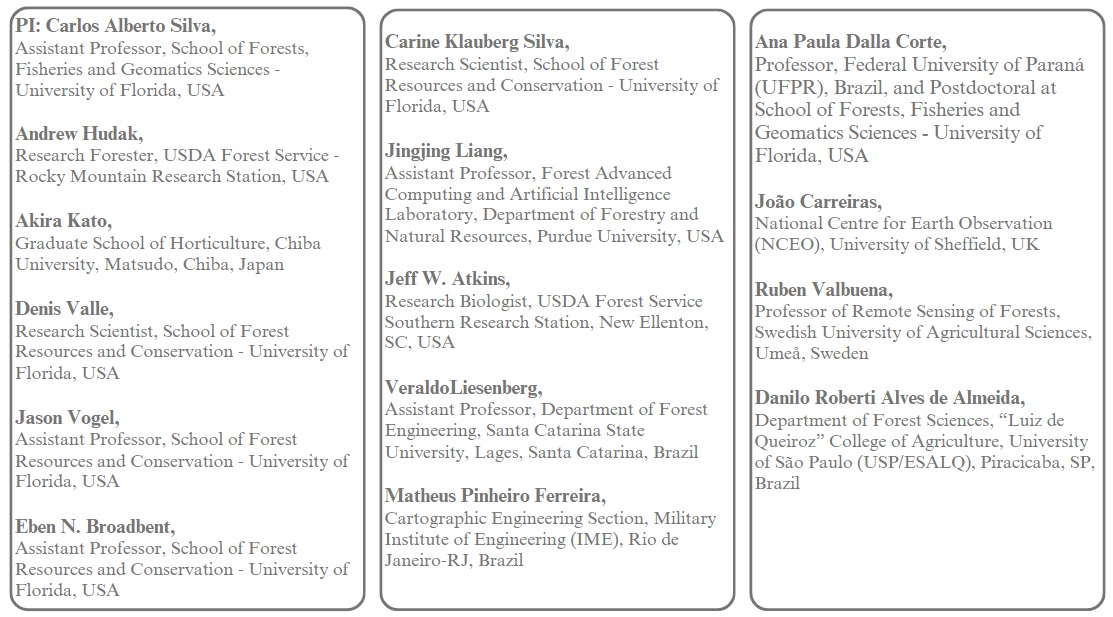
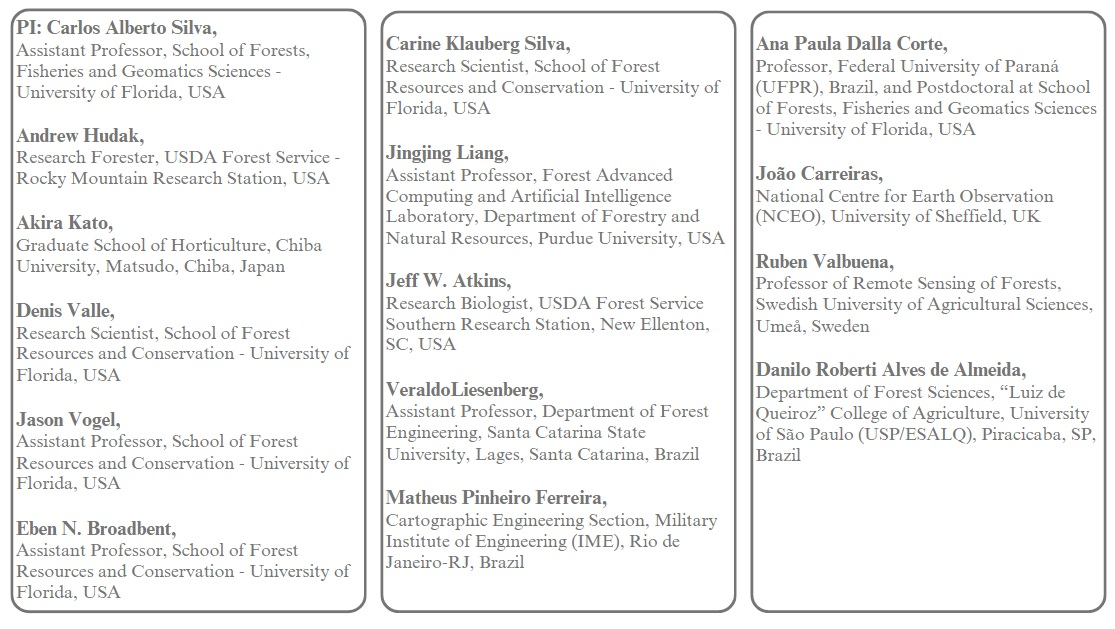
version7

Changed region(s): [[0.0, 0.0, 1.0, 1.0]]

diff --git a/cms_home.html b/cms_home.html
@@ -287,7 +287,7 @@ style="margin-top:30px; width:1000px;font-size: 50px;">
                                 We have brought together a diverse multi-disciplinary team with the experience required to complete this proposed project. Our team contains university and federal scientists and graduate students distributed across continents with a wealth of experience in remote sensing, fire and fuel ecology, programming and statistics.  
                               </p>
                               <img src="images\figura1_5.jpg" alt=""
-                              style="margin-top:30px; width:100%;font-size: 50px;">
+                              style="margin-top:30px; width:80%;font-size: 50px;">
                            <table id="t01" style="color:black; margin-left:0px;">
                               </table>
                          </div>

diff --git a/news.html b/news.html
@@ -133,6 +133,7 @@
         <li><a href="workshop.html" >Workshop</a></li>
         <li><a href="stakeholders.html">Stakeholders</a></li>
         <li><a href="publication.html">Publications</a></li>
+        <li><a href="products.html" >Products</a> </li>
         <li><a href="news.html"class="active">News</a></li>
 
       </ul>
@@ -173,7 +174,7 @@ Fire Monitoring needs Using Remote Sensing Data. Location: Brasília, Brazil. Th
 
  </div>      
  <div class = "container" style="border-radius: 5px; border: 2px solid transparent; margin-left:0px; margin-top:0px; 
-               background:#f37020;float: left; width: 1800px;height: 30px;">  
+               background:#f37020;float: left; width: 100%;height: 30px;">  
                </div>
 </div>             
 </body>
